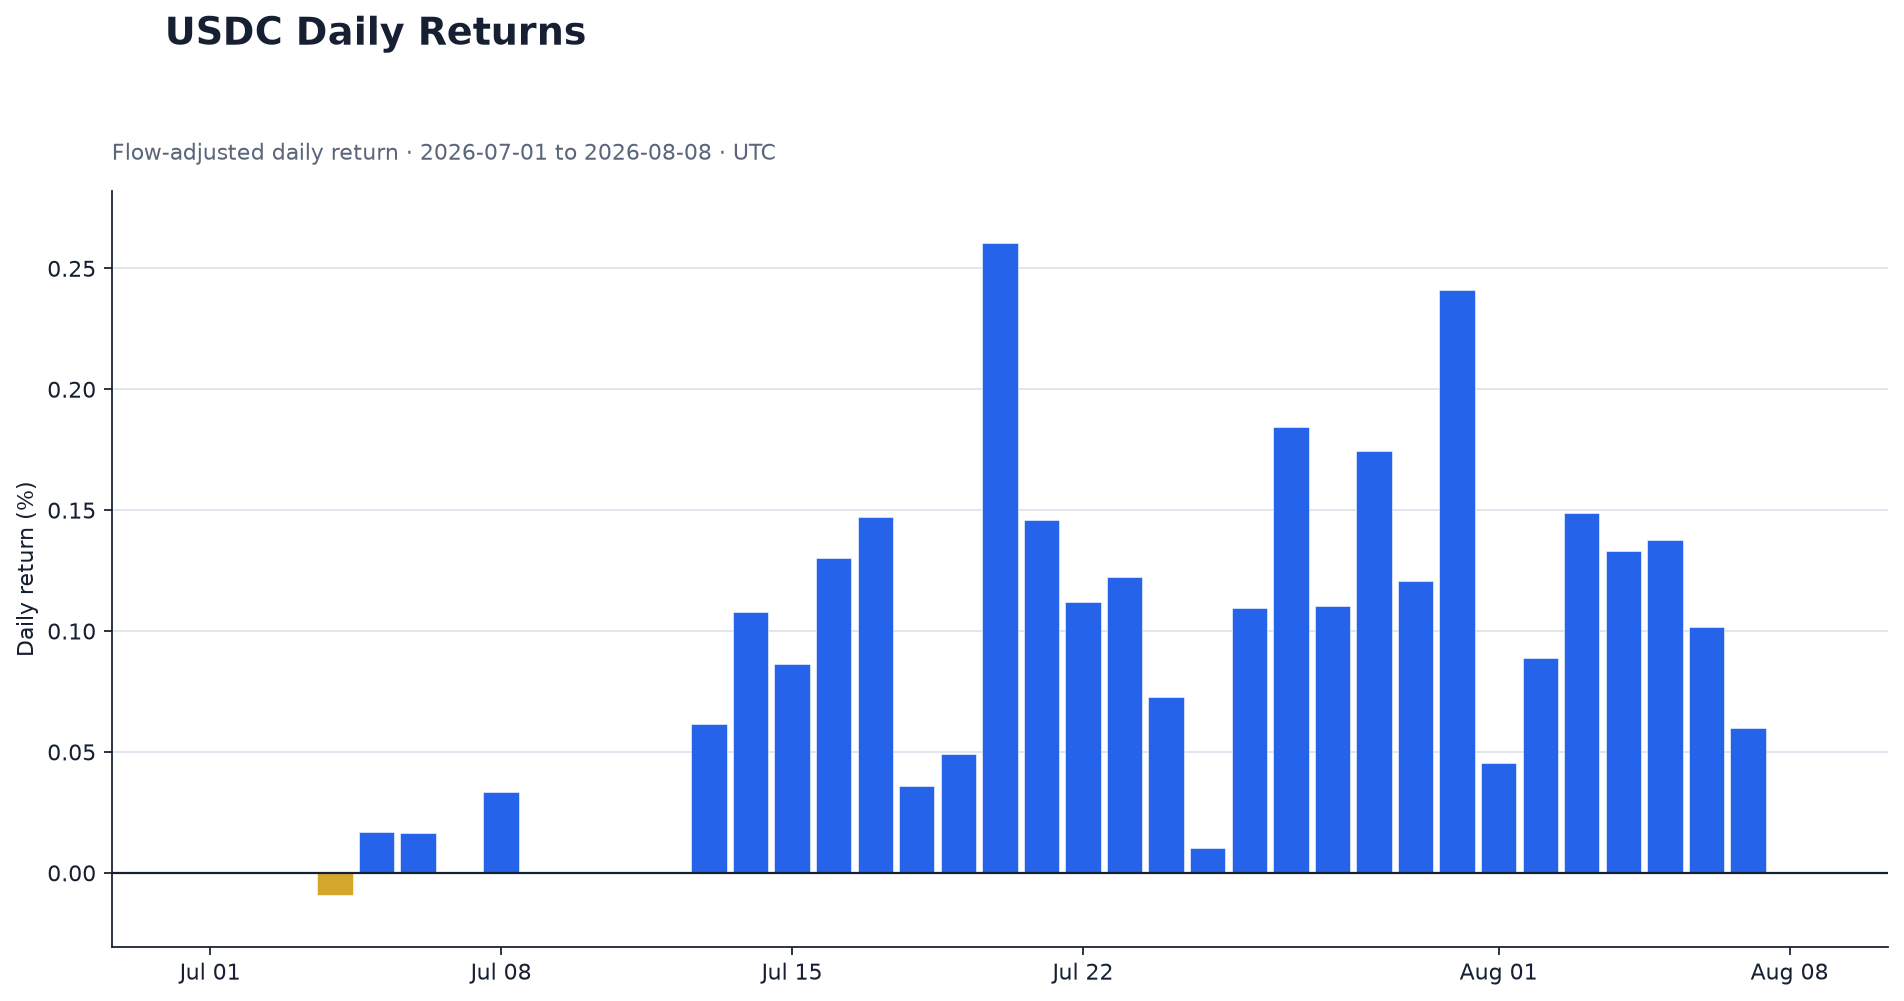
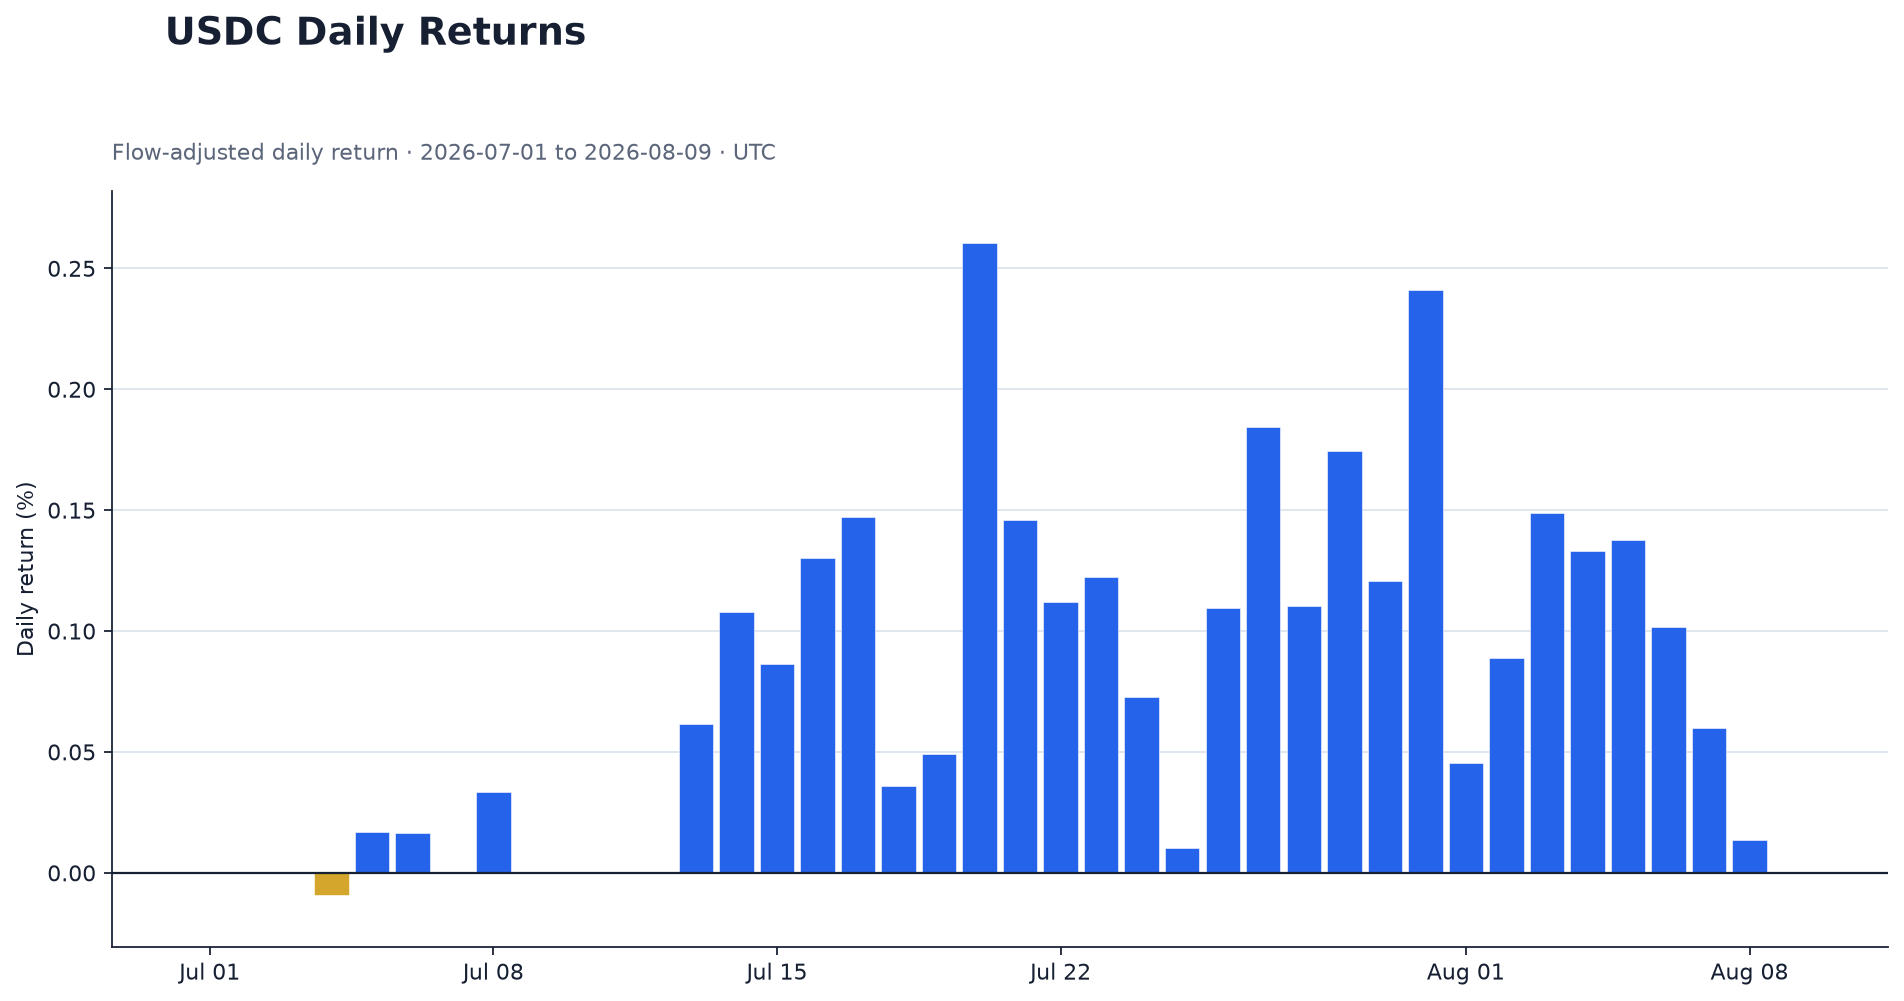
chore: update USDC performance

diff --git a/reports/performance_summary.md b/reports/performance_summary.md
@@ -1,7 +1,7 @@
 # Performance Summary
 
-Generated at: **2026-08-08T00:10:07Z**<br>
-Coverage: **2026-07-01 to 2026-08-08 (UTC)**<br>
+Generated at: **2026-08-09T00:10:08Z**<br>
+Coverage: **2026-07-01 to 2026-08-09 (UTC)**<br>
 Scope: **Daily USDC USD-M Futures realized performance**
 
 Absolute account values are not published. USD-M Futures transfers are excluded from trading return.
@@ -9,30 +9,29 @@ Sharpe and Sortino use private total daily returns including unrealized PnL; unr
 
 | Metric | Value |
 |---|---:|
-| Cumulative Return | 3.10% |
+| Cumulative Return | 3.11% |
 | Latest Daily Return | 0.00% |
-| Annualized Return | 36.28% |
-| Annualized Volatility | 1.35% |
-| Sharpe Ratio | 5.764548 |
-| Sortino Ratio | 10.224468 |
+| Annualized Return | 32.29% |
+| Annualized Volatility | 1.36% |
+| Sharpe Ratio | 5.697007 |
+| Sortino Ratio | 10.113747 |
 | Maximum Drawdown | -0.01% |
-| Calmar Ratio | 3972.279281 |
-| Win Rate | 96.77% |
-| Profit Factor | 1256.399661 |
-| Total Realized Pnl Usdc | 135.889199 |
+| Calmar Ratio | 3535.400458 |
+| Win Rate | 96.88% |
+| Profit Factor | 1262.143095 |
+| Total Realized Pnl Usdc | 136.489299 |
 | Total Commission Usdc | -0.075227 |
-| Total Funding Fee Usdc | 1.717999 |
-| Total Net Pnl Usdc | 137.531971 |
-| Number Of Trading Days | 31 |
-| Number Of Trades | 979 |
-| Valid Return Days | 36 |
-| Excluded Return Days | 3 |
+| Total Funding Fee Usdc | 1.747106 |
+| Total Net Pnl Usdc | 138.161177 |
+| Number Of Trading Days | 32 |
+| Number Of Trades | 987 |
+| Valid Return Days | 40 |
+| Excluded Return Days | 0 |
 | Annualization Factor | 365 |
 
 ## Warnings and coverage notes
 
 - Non-performance income types were treated as capital adjustments: COIN_SWAP_DEPOSIT
-- 3 day(s) were excluded from ratios because the reconstructed capital base was invalid.
 - Sharpe and Sortino include unrealized PnL and begin on 2026-07-06 because earlier official equity snapshots are unavailable.
 
 ## Definitions
